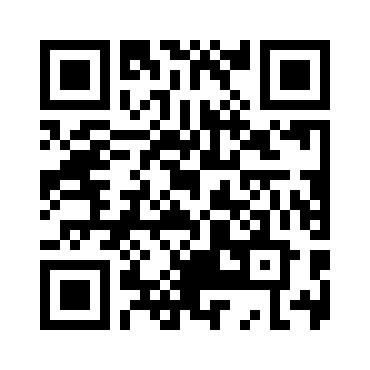
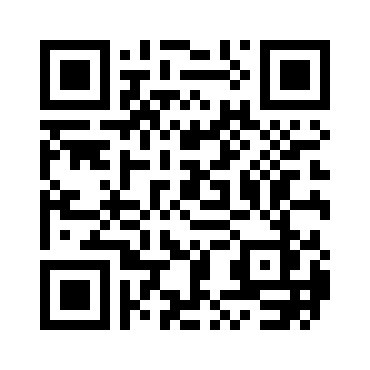
Update USDT BSC and Polygon address 1 with new addresses and QR codes

Changed region(s): [[0.0892, 0.2973, 0.8919, 0.8919], [0.327, 0.0892, 0.6838, 0.2676]]

diff --git a/escrow_bot.py b/escrow_bot.py
@@ -89,12 +89,12 @@ SOL_QR_IMAGES = [
 
 # USDT Deposit Addresses
 BSC_DEPOSIT_ADDRESSES = [
-    "0x9b4F87471a1648CAA3Cf8D87594a8eE321077FF7",  # Address 1
+    "0xa3D0e7da537057cbeC62A48235FbEc8BB38B4E08",  # Address 1
     "0xf282e789e835ed379aea84ece204d2d643e6774f"   # Address 2
 ]
 
 POLYGON_DEPOSIT_ADDRESSES = [
-    "0x6a2757F5987a845D77f3DB441a3d0aB50a3A3A98",  # Address 1
+    "0xFEc3e5E0cca5a924D0aD450DCF9fB13a51E4138F",  # Address 1
     "0xf282e789e835ed379aea84ece204d2d643e6774f"   # Address 2
 ]
 
